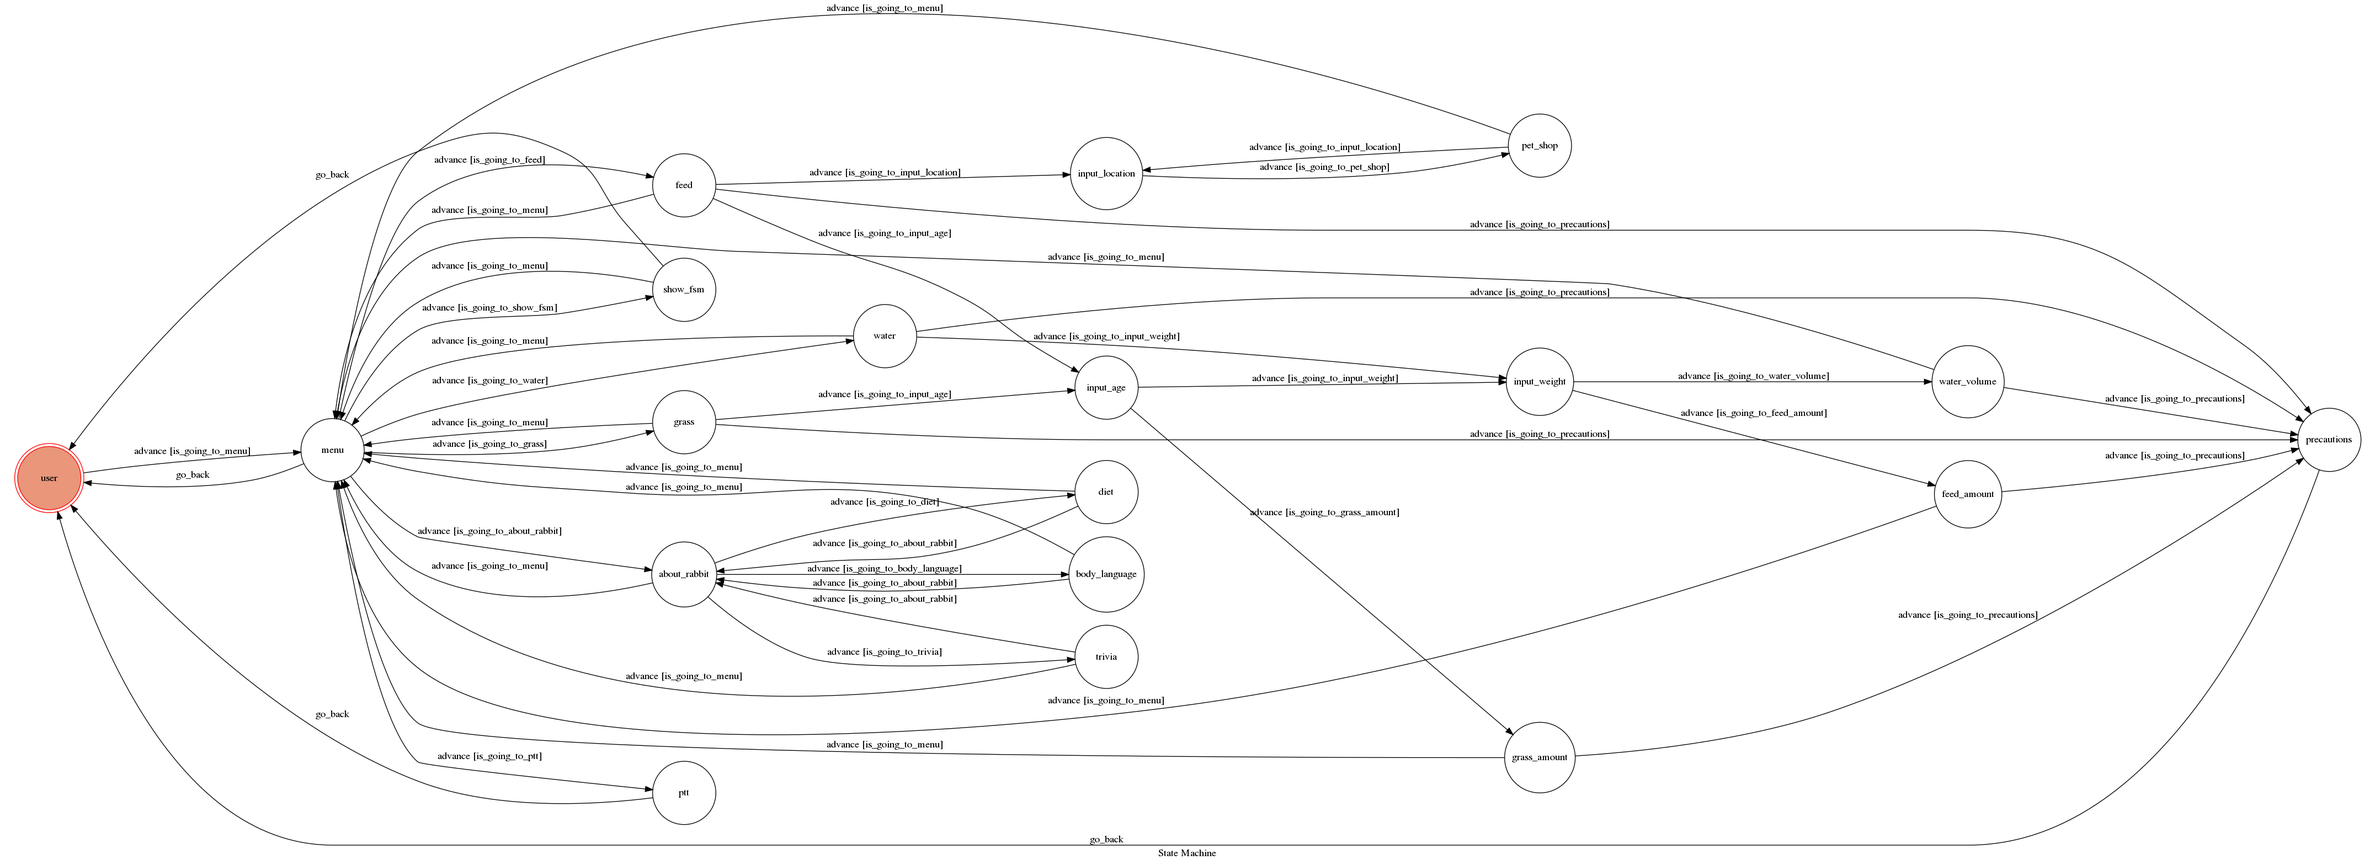
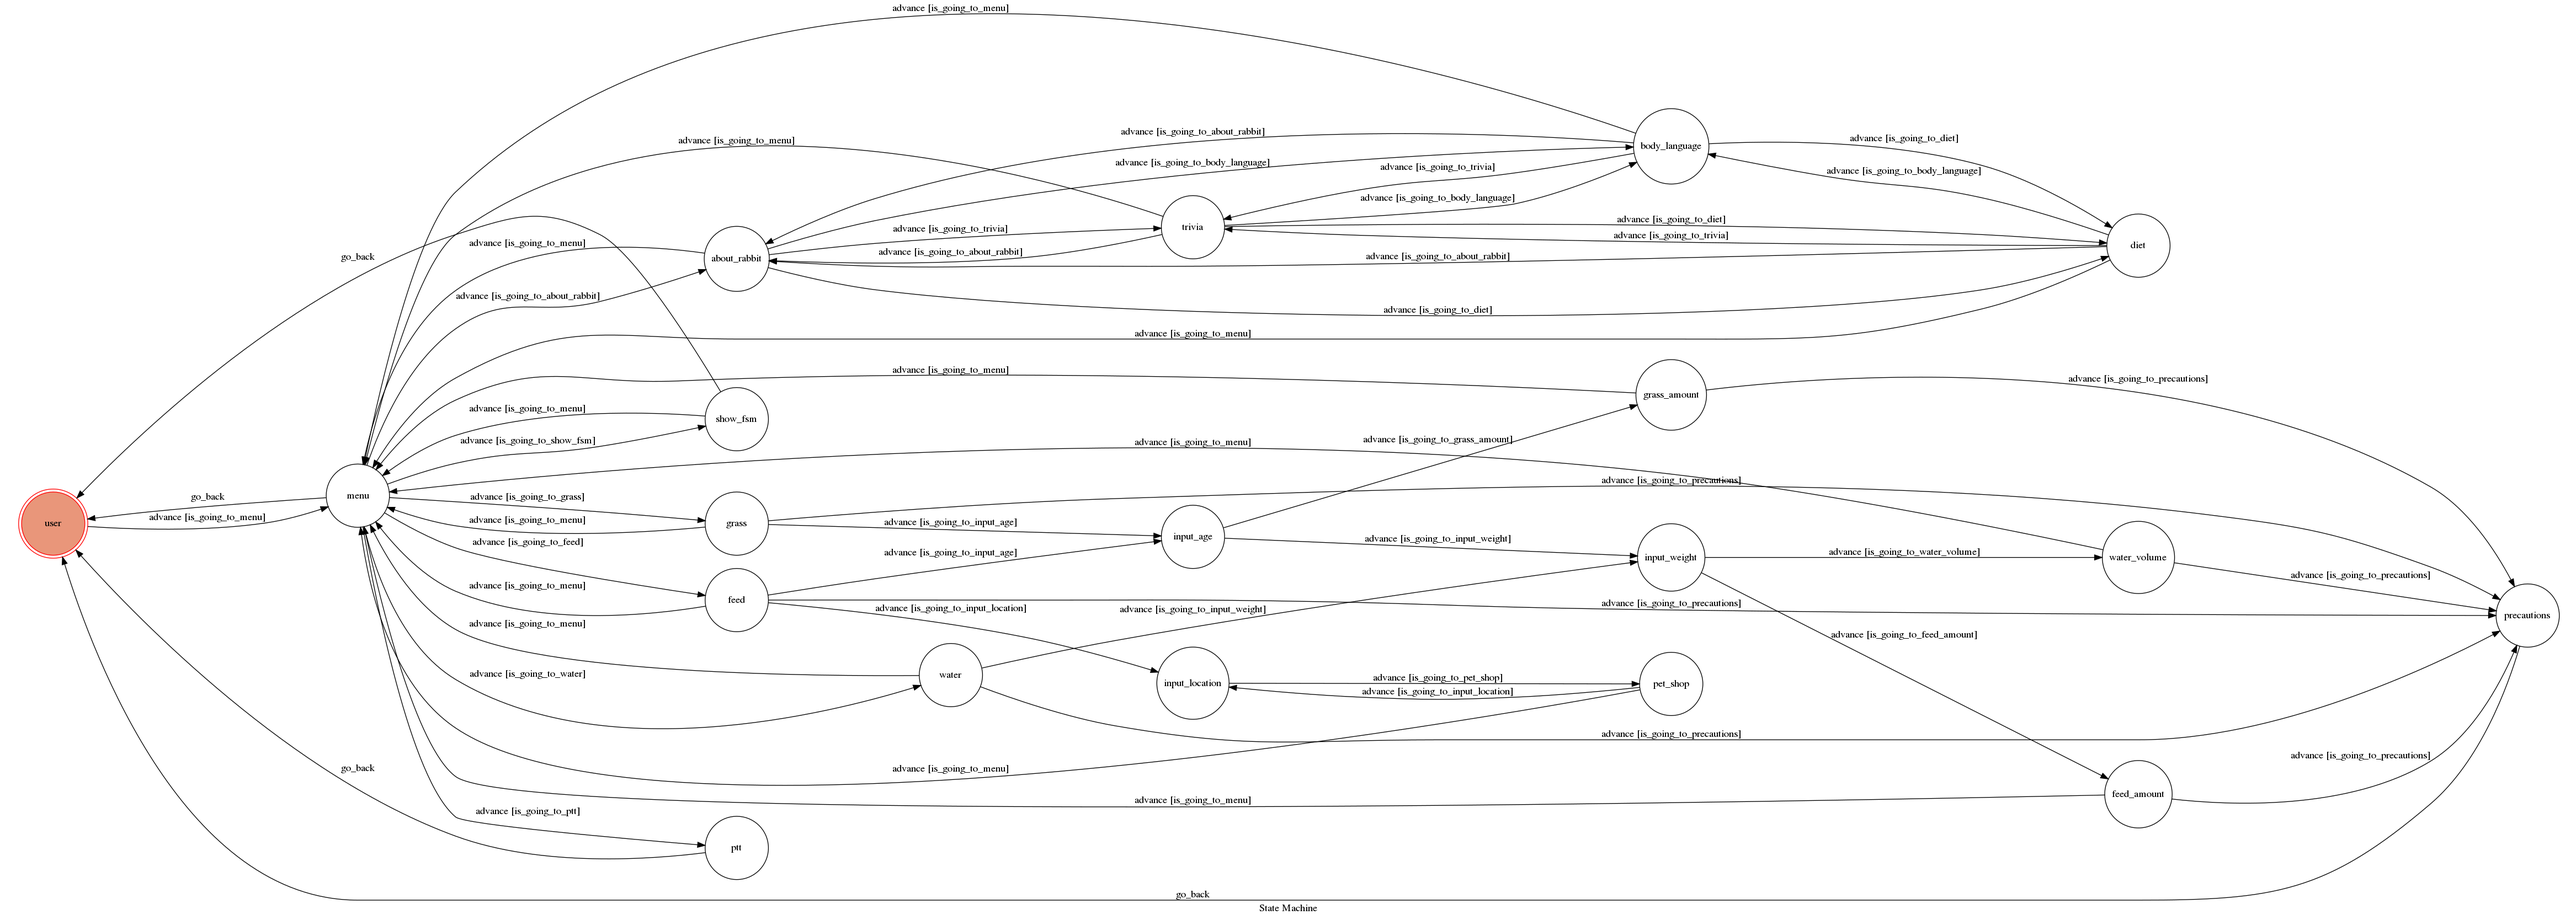
ThirdCommit

diff --git a/fsm.py b/fsm.py
@@ -284,7 +284,7 @@ class TocMachine(GraphMachine):
     
     def on_enter_diet(self, event):
         global index1
-        send_text_message(event.reply_token, about_rabbit_template.diet_dict[index1]+"\n\n輸入『主選單』可回主選單\n輸入『其他』可再看其他有關兔兔的知識喔")
+        send_text_message(event.reply_token, about_rabbit_template.diet_dict[index1]+"\n\n輸入『主選單』可回主選單\n輸入『其他』或點選選單中其他的項目可再看其他有關兔兔的知識喔")
         index1 = index1 + 1
         if(index1 == 11):
             index1 = 0
@@ -295,7 +295,7 @@ class TocMachine(GraphMachine):
     
     def on_enter_body_language(self, event):
         global index2
-        send_text_message(event.reply_token, about_rabbit_template.body_language_dict[index2]+"\n\n輸入『主選單』可回主選單\n輸入『其他』可再看其他有關兔兔的知識喔")
+        send_text_message(event.reply_token, about_rabbit_template.body_language_dict[index2]+"\n\n輸入『主選單』可回主選單\n輸入『其他』或點選選單中其他的項目可再看其他有關兔兔的知識喔")
         index2 = index2 + 1
         if(index2 == 12):
             index2 = 0
@@ -306,7 +306,7 @@ class TocMachine(GraphMachine):
 
     def on_enter_trivia(self, event):
         global index3
-        send_text_message(event.reply_token, about_rabbit_template.trivia_dict[index3]+"\n\n輸入『主選單』可回主選單\n輸入『其他』可再看其他有關兔兔的知識喔")
+        send_text_message(event.reply_token, about_rabbit_template.trivia_dict[index3]+"\n\n輸入『主選單』可回主選單\n輸入『其他』或點選選單中其他的項目可再看其他有關兔兔的知識喔")
         index3 = index3 + 1
         if(index3 == 11):
             index3 = 0

diff --git a/app.py b/app.py
@@ -181,7 +181,7 @@ def show_fsm():
 
 if __name__ == "__main__":
     #show_fsm()
-    #machine.get_graph().draw("fsm.png", prog="dot", format="png")
+    machine.get_graph().draw("fsm.png", prog="dot", format="png")
     port = os.environ.get("PORT", 8000)
     app.run(host="0.0.0.0", port=port, debug=True)
 
